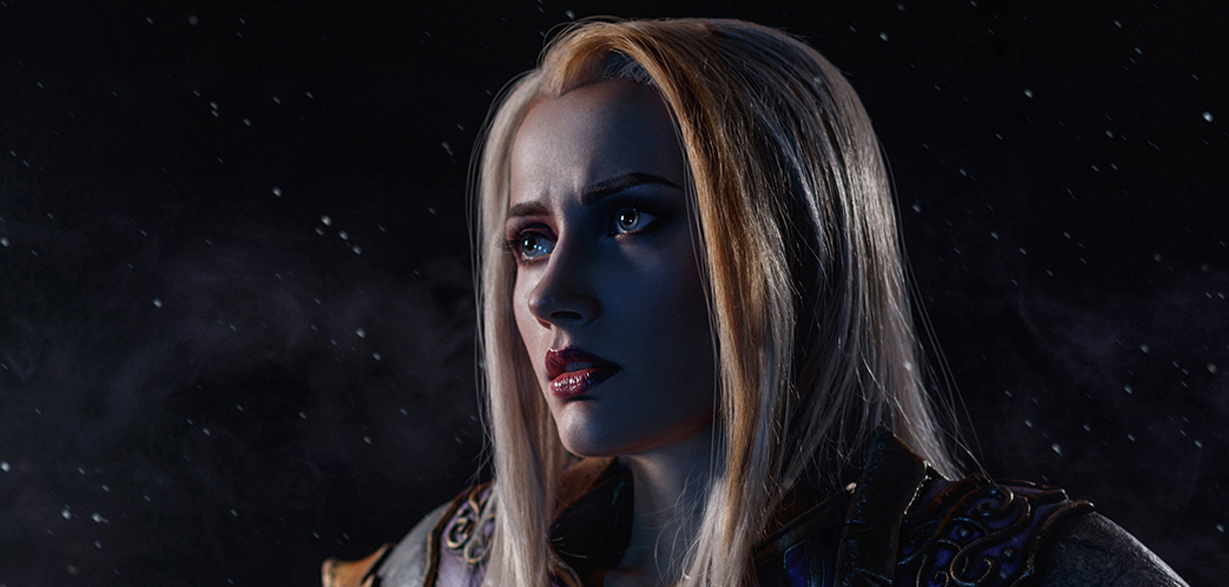
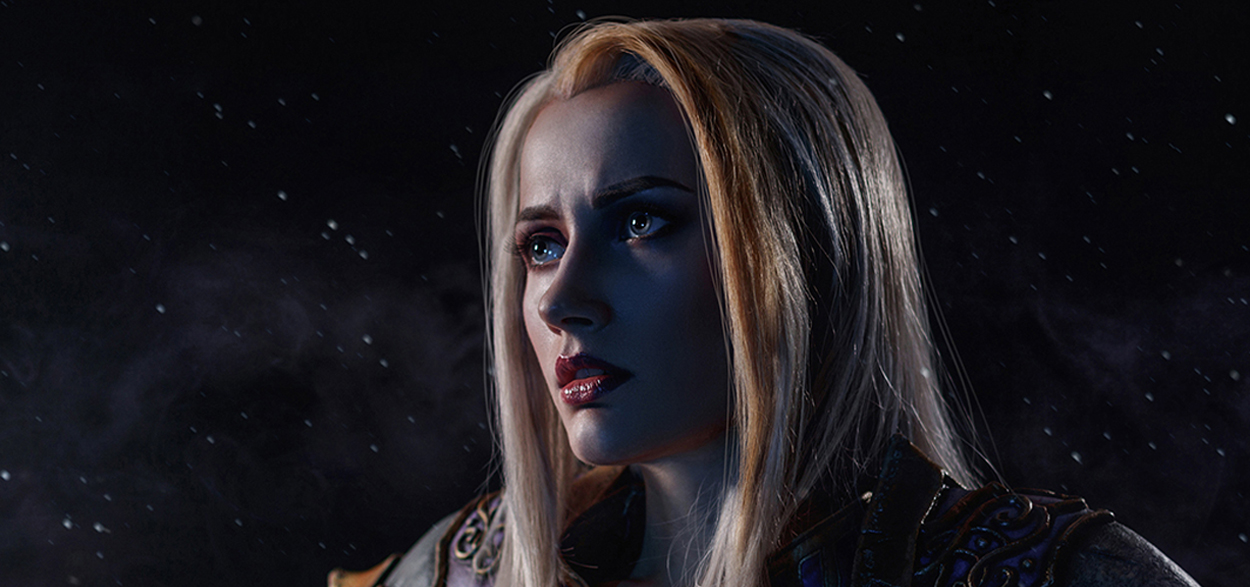
Toegevoegd onderdelen header

diff --git a/cosplayguide/public/css/style.css b/cosplayguide/public/css/style.css
@@ -1000,11 +1000,13 @@ label[for=thumbnail_url] {
     text-decoration: none; }
     .form a.login-link span {
       text-decoration: underline;
-      font-weight: 600; }
+      font-weight: 600;
+      color: #f6f6f6; }
       .form a.login-link span:hover {
-        color: #f6f6f6; }
+        color: #ffad01;
+        text-decoration: none; }
   .form .login-extra {
-    margin-top: 1rem; }
+    margin-top: 1.5rem; }
 
 .login .col-5 {
   padding-left: 0; }
@@ -1119,6 +1121,30 @@ label[for=thumbnail_url] {
 
   .titel.contact {
     margin-left: 18%; } }
+.header, .header img {
+  position: relative; }
+
+.header-tekst {
+  position: absolute;
+  top: 15%;
+  left: 6%;
+  width: 30%;
+  color: #f6f6f6;
+  text-align: right; }
+  .header-tekst p {
+    margin-top: 1.5rem;
+    margin-bottom: 1.5rem;
+    font-size: 0.85em;
+    font-weight: 600; }
+
+.header .link-cosplayer {
+  font-size: 0.75em; }
+  .header .link-cosplayer a {
+    color: #f6f6f6; }
+
+/*.pruik .row.header {
+  height:
+}*/
 body {
   font-family: 'Open Sans', sans-serif;
   color: #2e2e2e;
@@ -1151,6 +1177,14 @@ body {
     top: 35%; }
   .button-yellow img.right {
     right: 15px; }
+
+.buttons-linethrough {
+  position: absolute;
+  top: 49%;
+  left: -75px;
+  height: 2px;
+  width: 85px;
+  background-color: black; }
 
 .alert-danger {
   list-style: none;
@@ -1190,8 +1224,7 @@ body {
   background-color: #2e2e2e; }
 
 .titels-underline.light {
-  background-color: #f6f6f6;
-  height: 2px; }
+  background-color: #f6f6f6; }
 
 .titels-underline.purple {
   background-color: #3e297b; }
@@ -1212,6 +1245,12 @@ body {
   position: absolute;
   top: 0;
   left: 0; }
+
+a.link {
+  text-decoration: underline; }
+  a.link:hover {
+    color: #ffad01;
+    text-decoration: none; }
 
 .desaturate {
   filter: grayscale(100%); }

diff --git a/cosplayguide/public/js/script.js b/cosplayguide/public/js/script.js
@@ -1,7 +1,7 @@
 $( document ).ready(function() {
 
 
-
+      /* UPLOAD FILES FILL SPAN MET NAAM OF AANTAL BESTANDEN */
     	$( '.inputfile' ).each( function()
     	{
     		var $input	 = $( this ),
@@ -32,7 +32,7 @@ $( document ).ready(function() {
 
 
 
-
+       /* PROGRESS HOVER ONDERDELEN */
        if (window.matchMedia("(max-width: 992px)").matches) {
 
 
@@ -78,6 +78,7 @@ $( document ).ready(function() {
       }
 
 
+      /* CONTACT ASTRONAUT IMG */
       if (window.matchMedia("(max-width: 768px)").matches) {
 
         $(".col-6.astronaut img").attr('src', '/img/astronaut-small.png');
@@ -88,16 +89,26 @@ $( document ).ready(function() {
         $(".col-6.astronaut img").attr('src', '/img/astronaut.png');
       }
 
-      
+
+
+      /* FOOTER ACHTERGROND */
       $(".footer-background").attr('src', '/img/footer.jpg');
       $(".footer-background-earth").attr('src', '/img/footer-earth.jpg');
 
 
 
-
+      /* PROGRESS STATUSBALK */
       $("ul.status li a img.active").parents( "li" ).prevAll().css( "border-color", "#d5d3d3" );
 
 
+      /* MEER INFO SCROLL */
+      $('.button-meer-info').click(function(e) {
+        e.preventDefault();
+
+        $('html, body').animate({
+          scrollTop: $('.meer-info').offset().top
+        }, 500);
+      });
 
 
 

diff --git a/cosplayguide/public/css/style.scss b/cosplayguide/public/css/style.scss
@@ -28,6 +28,7 @@ $font-very-big: 1.5em;
 @import "partials/progress_cosplay";
 @import "partials/edit_cosplay";
 @import "partials/login";
+@import "partials/onderdelen";
 
 
 
@@ -82,7 +83,16 @@ body {
     right: 15px;
   }
 
+}
 
+
+.buttons-linethrough {
+  position: absolute;
+  top: 49%;
+  left: -75px;
+  height: 2px;
+  width: 85px;
+  background-color: black;
 
 }
 
@@ -144,7 +154,6 @@ body {
 
 .titels-underline.light {
   background-color: $bijna-wit;
-  height: 2px;
 }
 
 .titels-underline.purple {
@@ -174,6 +183,15 @@ body {
   position: absolute;
   top: 0;
   left: 0;
+}
+
+a.link {
+  text-decoration: underline;
+
+  &:hover {
+    color: $primary-color;
+    text-decoration: none;
+  }
 }
 
 

diff --git a/cosplayguide/public/css/partials/onderdelen.scss b/cosplayguide/public/css/partials/onderdelen.scss
@@ -1,0 +1,36 @@
+
+.header, .header img {
+  position: relative;
+}
+
+.header-tekst {
+  position: absolute;
+  top: 15%;
+  left: 6%;
+  width: 30%;
+  color: $bijna-wit;
+  text-align: right;
+
+  p {
+    margin-top: 1.5rem;
+    margin-bottom: 1.5rem;
+    font-size: $font-medium;
+    font-weight: 600;
+  }
+}
+
+.header .link-cosplayer {
+  font-size: $font-medium-small;
+
+  a {
+    color: $bijna-wit;
+  }
+}
+
+
+
+// media queries
+
+/*.pruik .row.header {
+  height:
+}*/

diff --git a/cosplayguide/public/css/partials/login.scss b/cosplayguide/public/css/partials/login.scss
@@ -79,15 +79,17 @@
     span {
       text-decoration: underline;
       font-weight: 600;
+      color: $bijna-wit;
 
       &:hover {
-        color: $bijna-wit
+        color: $primary-color;
+        text-decoration: none;
       }
     }
   }
 
   .login-extra {
-    margin-top: 1rem;
+    margin-top: 1.5rem;
   }
 
 }

diff --git a/cosplayguide/resources/views/staticpages/onderdelen/pruiken.blade.php b/cosplayguide/resources/views/staticpages/onderdelen/pruiken.blade.php
@@ -3,7 +3,36 @@
 
 @section('content')
 
-<h1>Pruiken</h1>
+<div class="pruik">
+
+
+  <div class="row header">
+    <img src="/img/pruik-achtergrond.jpg" alt="Cosplay met pruik">
+    <div class="header-tekst">
+
+      <div class="titel">
+        <h1 class="large light">PRUIK</h1>
+        <div class="titels-underline small light"></div>
+      </div>
+
+      <p>Lorem ipsum dolor sit amet, consectetur adipiscing elit. Sed eu fermentum elit. Suspendisse purus enim, tristique eget aliquet eget, luctus</p>
+      <p>amet, ullamcorper scelerisque nunc. Curabitur ullamcorper sem non arcu suscipit cursus corper sem non</p>
+
+      <a class="button-yellow button-meer-info" href="#">
+        <div class="buttons-linethrough"></div>
+        <p>ONTDEK MEER</p>
+      </a>
+
+      <p class="link-cosplayer">Bekijk meer van <a class="link" href="#">Narga Lifestream</a></p>
+
+    </div>
+  </div>
+
+  <div class="row lacefront meer-info">
+    <h2>LACEFRONT</h2>
+  </div>
+
+</div>
 
 
 @endsection

diff --git a/cosplayguide/resources/views/staticpages/onderdelen/lenzen.blade.php b/cosplayguide/resources/views/staticpages/onderdelen/lenzen.blade.php
@@ -3,7 +3,8 @@
 
 @section('content')
 
-<h1>Lenzen</h1>
+
+<h2>LENZEN</h2>
 
 
 @endsection
